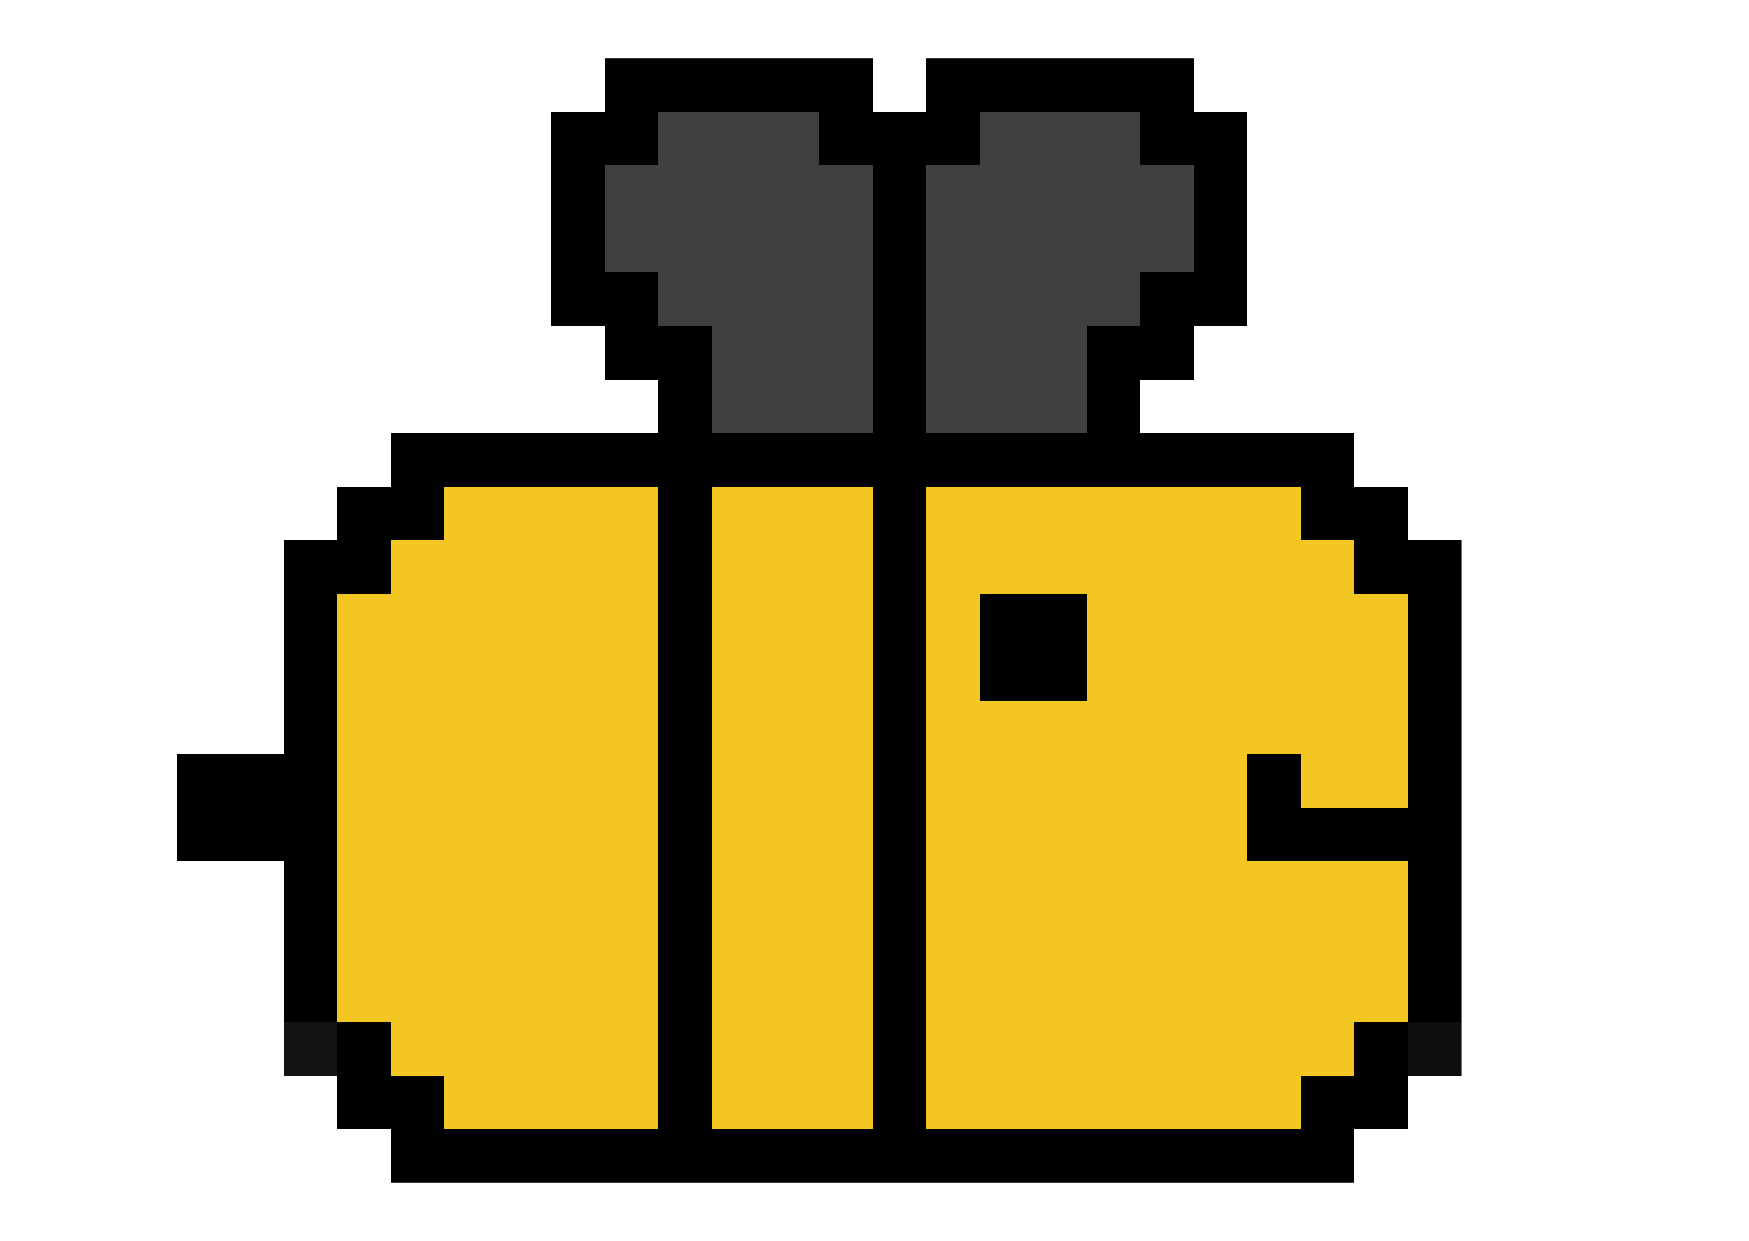
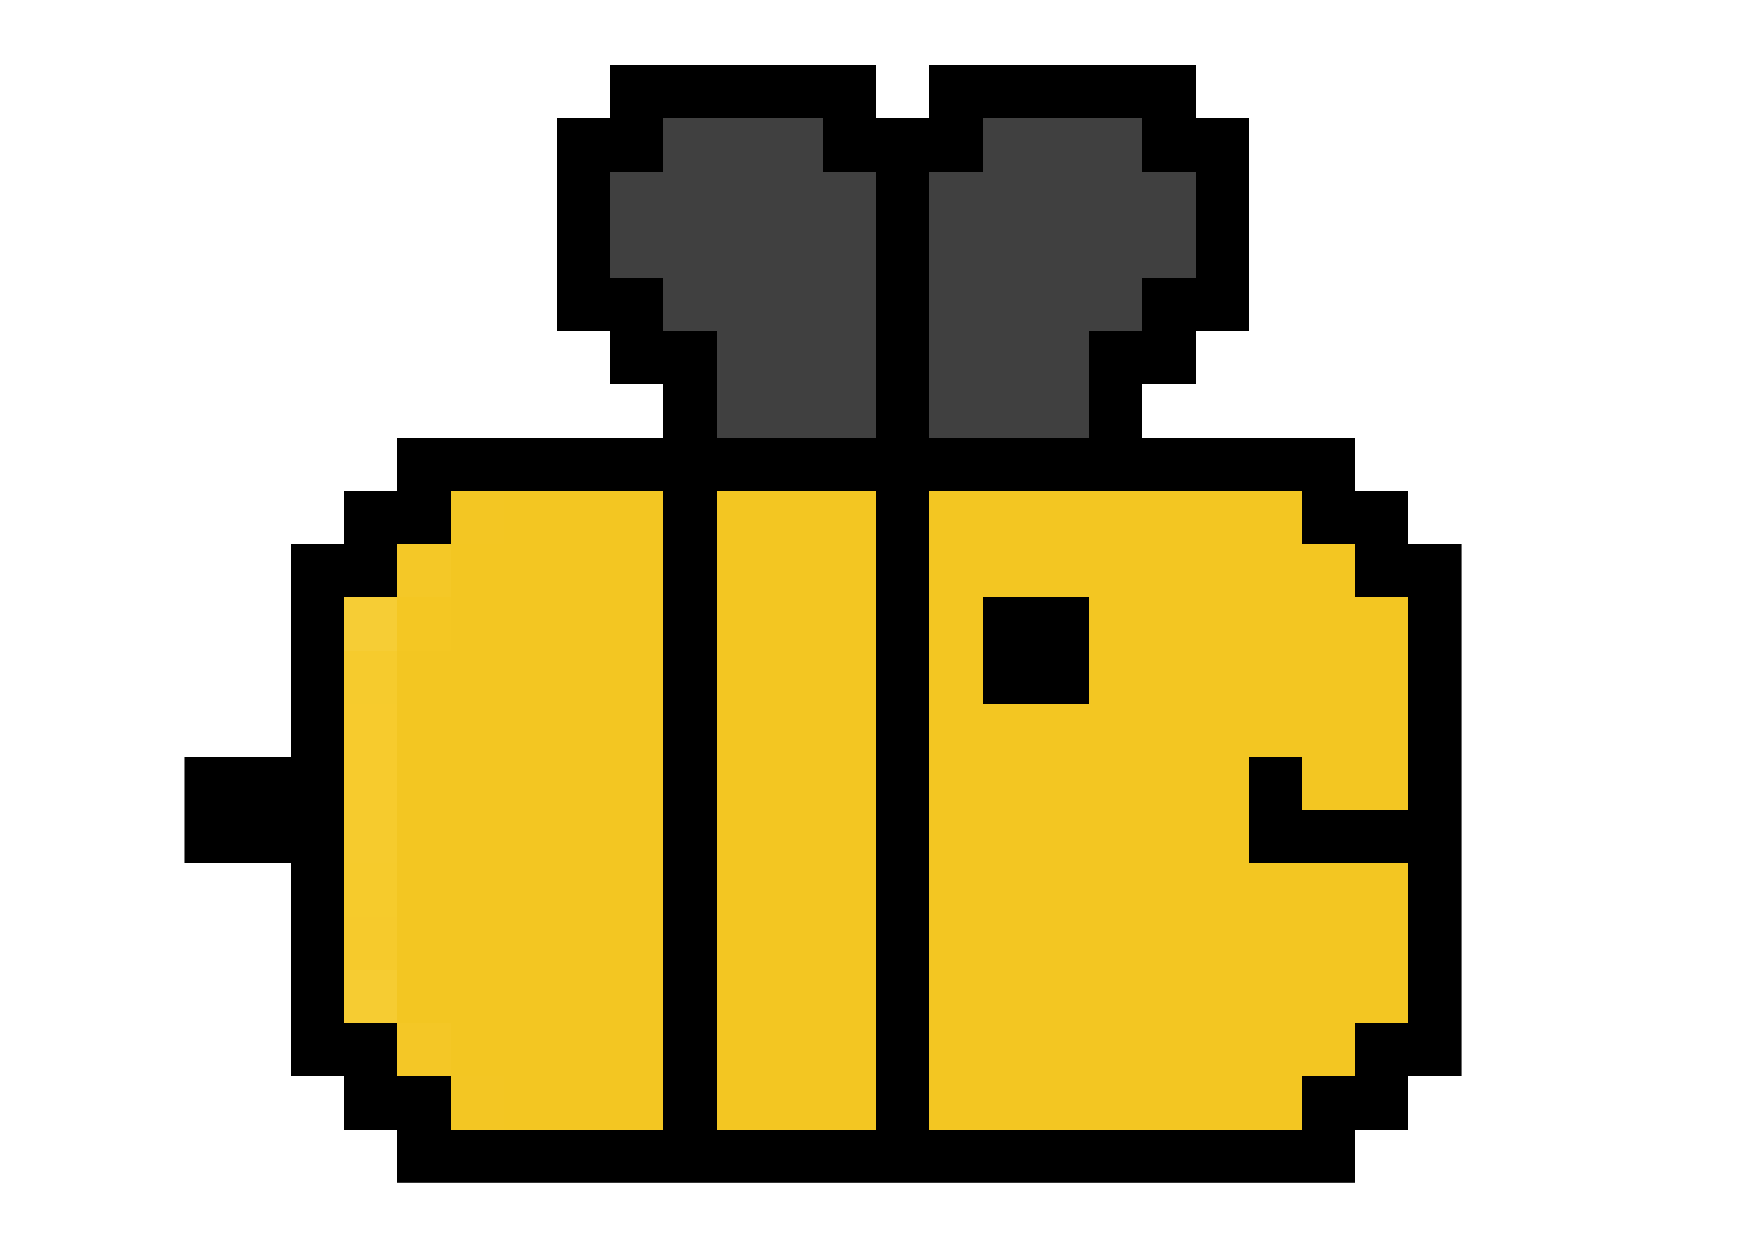
Add Buzz's outfits

diff --git a/src/pwa/serviceWorker.js b/src/pwa/serviceWorker.js
@@ -1,4 +1,4 @@
-const cacheName = "buzz-buzz-2.5.4";
+const cacheName = "buzz-buzz-2.5.5";
 const IS_DEV = self.location.hostname === "localhost";
 
 const wordDataPathname = "/words/en";
